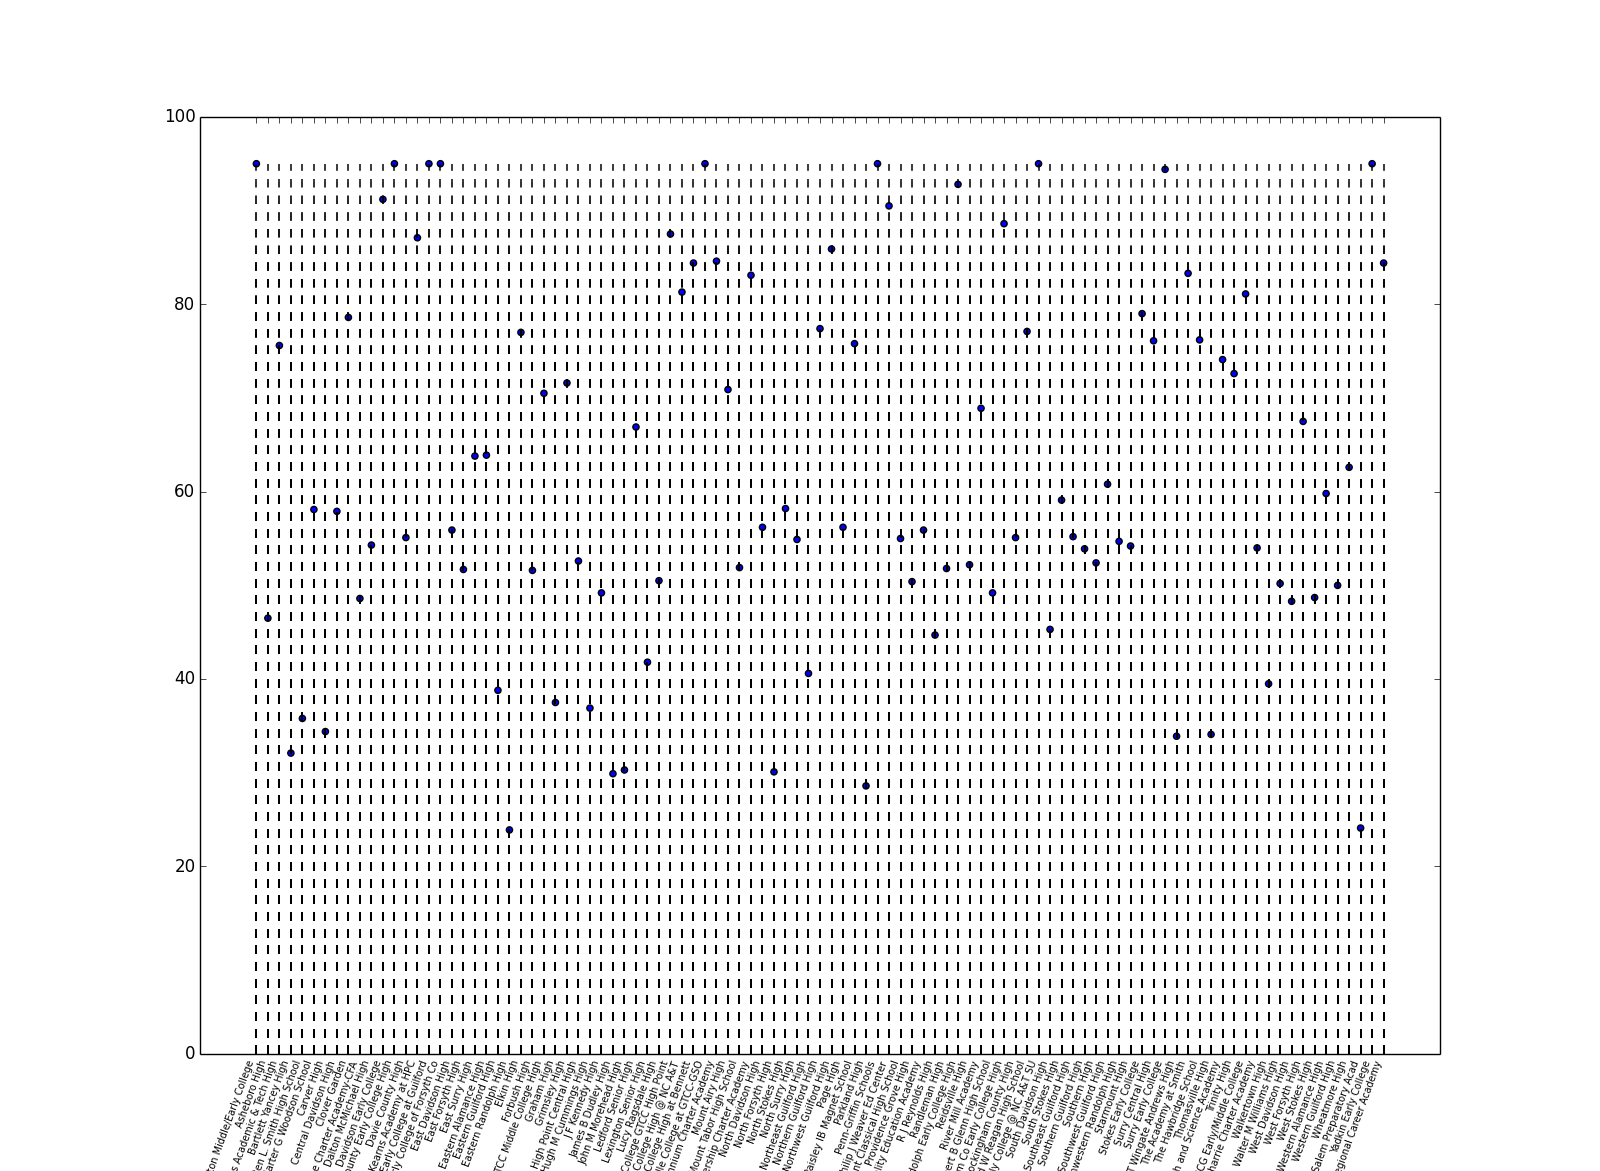
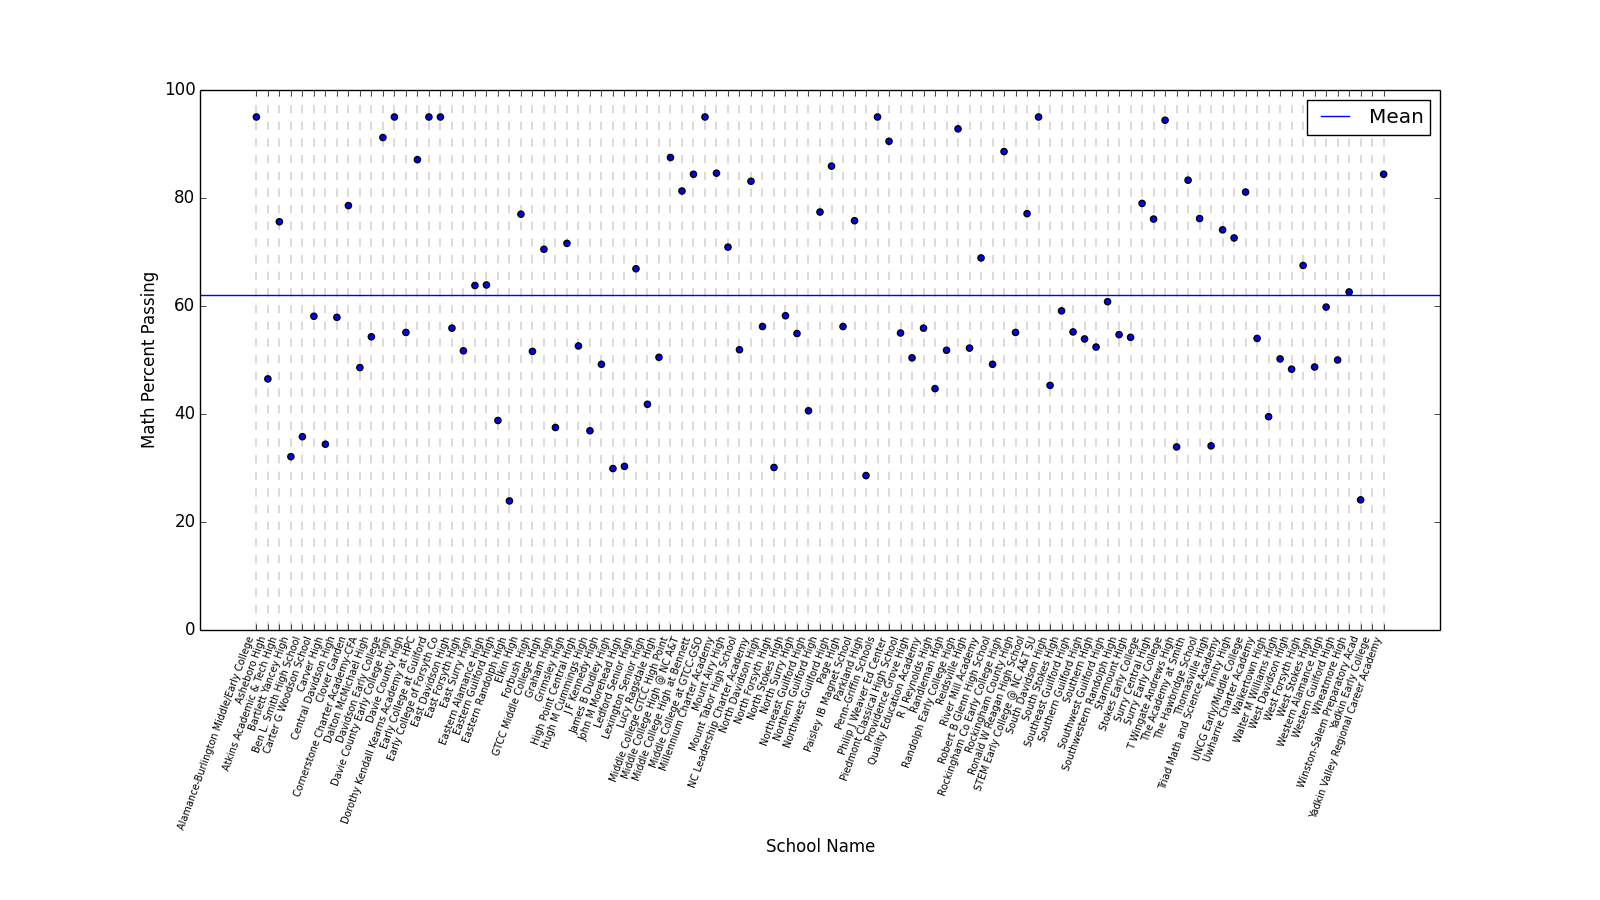
Added more graphs, fixed formatting, and began work on making a dataframe for a scatter matrix graph.

Changed region(s): [[0.0938, 0.0933, 0.9062, 1.0], [0.0938, 0.4044, 0.125, 0.4667]]

diff --git a/Accountability Report/data_analyzation.py b/Accountability Report/data_analyzation.py
@@ -4,9 +4,12 @@ import matplotlib.pyplot as plt
 import numpy as np 
 from sklearn.preprocessing import LabelEncoder
 import xlrd
+import pandas as pd
+from pandas.tools.plotting import scatter_matrix
 report = xlrd.open_workbook('acctsumm17.xlsx').sheet_by_index(0)
 northwest_schools = build_school_dict(report, 'Northwest') # form = {School: cellnumber}
 northwest_grades = build_grade_dict(report, northwest_schools) # form = {Math, bio, eng, school}
+northwest_dataframe = pd.DataFrame.from_dict(northwest_grades, orient='index')
 north_central_schools = build_school_dict(report, 'North Central')
 north_central_grades = build_grade_dict(report, north_central_schools)
 western_schools = build_school_dict(report, 'Western')
@@ -22,11 +25,14 @@ southeast_grades = build_grade_dict(report, southeast_schools)
 piedmont_schools = build_school_dict(report, 'Piedmont Triad')
 piedmont_grades = build_grade_dict(report, piedmont_schools)
 
-plot_schools(northwest_grades, 0)
-plot_schools(north_central_grades, 0)
-plot_schools(western_grades, 0)
-plot_schools(northeast_grades, 0)
-plot_schools(southwest_grades, 0)
-plot_schools(sandhills_grades, 0)
-plot_schools(southeast_grades, 0)
-plot_schools(piedmont_grades, 0)
+
+print(northwest_dataframe)
+s = northwest_dataframe[0]
+northwest_dataframe.join(s.apply(lambda x: pd.Series(x.split(', '))), how='left', lsuffix='_left', rsuffix='_right')
+print('--------------------------------')
+print(northwest_dataframe)
+print(northwest_dataframe.reset_index()[[0]])
+scatter_matrix(northwest_dataframe, diagonal='kde')
+
+
+

diff --git a/Accountability Report/data_transformation_functions.py b/Accountability Report/data_transformation_functions.py
@@ -1,3 +1,4 @@
+import pandas as pd
 def build_school_dict(report, district_name): 
     '''Builds school dictionary given the sheet and district name 
     report: xlrd sheet object 
@@ -17,9 +18,9 @@ def build_grade_dict(report, school_dict):
     school_dict: dictionary of schools formatted like {school_name: cellno}'''
     grade_list = {}
     for schools, cell_no in school_dict.iteritems():
-        math_grade = report.cell_value(cell_no, 33).replace('>95', '95').replace('<10', '10')
-        bio_grade = report.cell_value(cell_no, 36).replace('>95', '95').replace('<10', '10')
-        eng_grade = report.cell_value(cell_no, 39).replace('>95', '95').replace('<10', '10')
+        math_grade = report.cell_value(cell_no, 33).replace('>95', '95').replace('<10', '10').replace('<5', '5')
+        bio_grade = report.cell_value(cell_no, 36).replace('>95', '95').replace('<10', '10').replace('<5', '5')
+        eng_grade = report.cell_value(cell_no, 39).replace('>95', '95').replace('<10', '10').replace('<5', '5')
         school_grade = report.cell_value(cell_no, 6)
         if [i for i in ['*', '', 'N/A'] if i in [str(math_grade), str(bio_grade), str(eng_grade), school_grade]]:
             pass
@@ -29,3 +30,4 @@ def build_grade_dict(report, school_dict):
 
             grade_list[schools] = "%s, %s, %s, %s" %(str(math_grade), str(bio_grade), str(eng_grade), school_grade)
     return grade_list
+

diff --git a/Accountability Report/plot_functions.py b/Accountability Report/plot_functions.py
@@ -2,22 +2,33 @@ import matplotlib.pyplot as plt
 from sklearn.preprocessing import LabelEncoder
 import numpy as np
 
-def plot_schools(grade_dict, index_of_grade):
+def plot_schools(grade_dict, index_of_grade, yax, file_name=[]):
+	fig = plt.figure(figsize=(16, 9))
 	labeler = LabelEncoder()
 	labeler = labeler.fit(list(grade_dict.keys()))
 	indexes = labeler.transform(grade_dict.keys())
 	grade_values = []
 	for items in grade_dict.values():
-		grade_values.append(items.split(',')[index_of_grade])
+		print("Finished here")
+		grade_values.append(float(items.split(',')[index_of_grade]))
 	axes = plt.gca()
+	mean = sum(grade_values)/len(grade_values)
 	plt.scatter(indexes, grade_values)
 	plt.xticks(indexes, list(grade_dict.keys()), rotation=70, size=7, ha='right')
+	plt.ylabel(yax)
+	plt.xlabel('School Name')
 	axes.set_ylim([0, 100])
+	y = range(0, 100)
 	for x in indexes:
-		for y in grade_values: 
-			x_list = []
-			y = np.arange(0, float(y)+1)
-			for values in y:
-				x_list.append(x)
-			plt.plot(x_list, y, '--', linewidth=.2, color='black')
+		x_list = []
+		for values in y:
+			x_list.append(x)
+		plt.plot(x_list, y, '--', linewidth=.2, color='black')
+	
+	plt.axhline(mean, 0, 32, label='Mean')
+	plt.subplots_adjust(bottom=.30)
+	plt.legend()
+	print("Got here")
+	if file_name:
+		plt.savefig('Graphs/Biology/V1/' + file_name + '.png')
 	plt.show()
